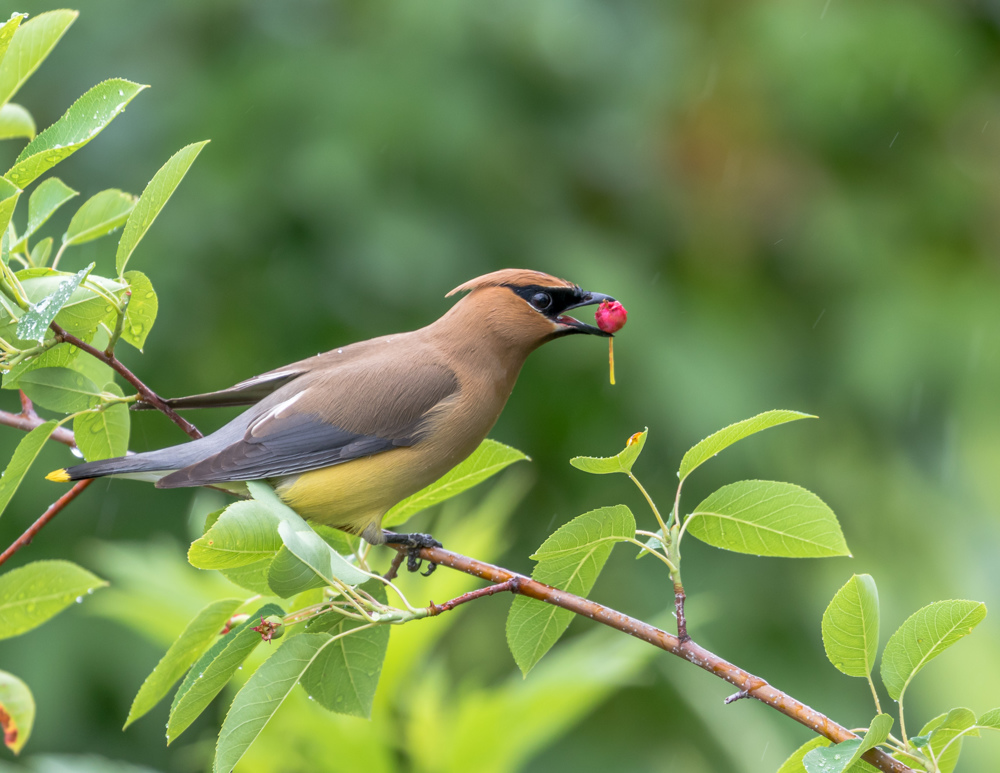
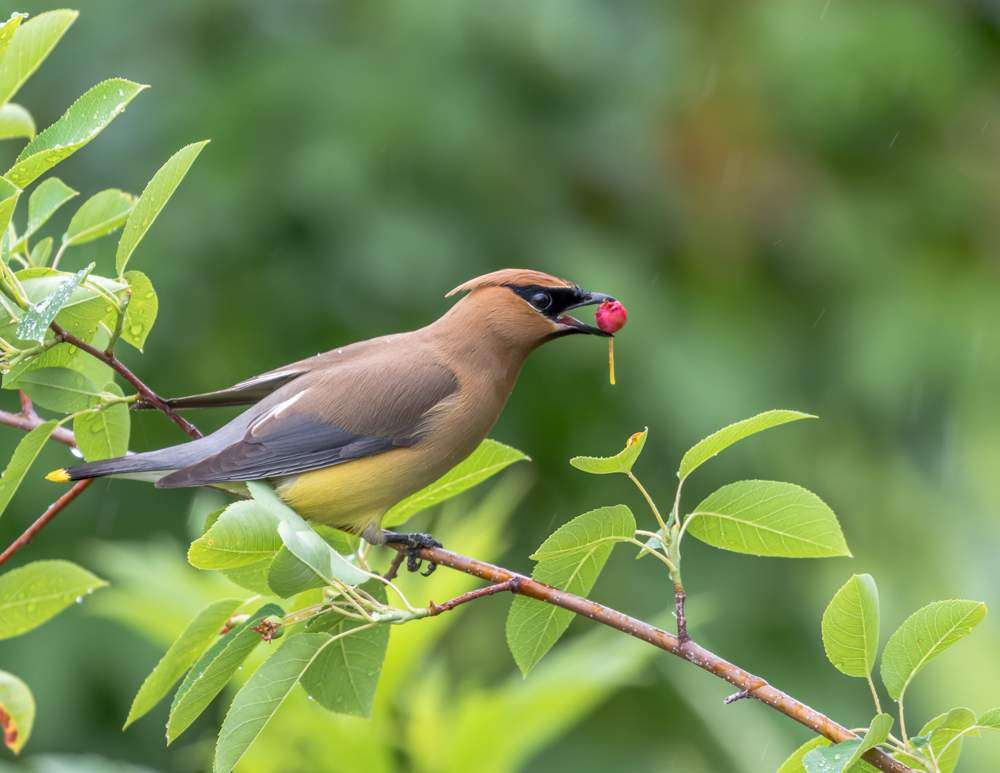
compress jpegs

diff --git a/www/index.html b/www/index.html
@@ -81,6 +81,8 @@
 
                 <button class="pswp__button pswp__button--close" title="Close (Esc)"></button>
 
+                <button class="pswp__button pswp__button--share" title="Share"></button>
+
                 <button class="pswp__button pswp__button--fs" title="Toggle fullscreen"></button>
 
                 <button class="pswp__button pswp__button--zoom" title="Zoom in/out"></button>

diff --git a/PortfolioGenerator/PortfolioGenerator/Program.cs b/PortfolioGenerator/PortfolioGenerator/Program.cs
@@ -2,6 +2,7 @@
 using System.Collections.Generic;
 using System.IO;
 using SixLabors.ImageSharp;
+using SixLabors.ImageSharp.Formats.Jpeg;
 using SixLabors.ImageSharp.Processing;
 
 namespace PortfolioGenerator
@@ -26,7 +27,8 @@ namespace PortfolioGenerator
             int index = 1;
             foreach (string iName in portfolioFiles)
             {
-                
+                JpegEncoder encoder = new JpegEncoder();
+                encoder.Quality = 65;
                 //generate thumbnail
                 using (Image image = Image.Load(portfolioFiles[index-1]))
                 {
@@ -34,16 +36,17 @@ namespace PortfolioGenerator
                     int height = 0;
                     image.Mutate(x => x.Resize(width, height));
 
-                    image.Save(baseDir + @"\Images\Portfolio\Thumbnails\portfolio-" +index+".jpg");
+                    image.Save(baseDir + @"\Images\Portfolio\Thumbnails\portfolio-" +index+".jpg",encoder);
                 }
                 //generate larger image
                 using (Image image = Image.Load(portfolioFiles[index-1]))
                 {
                     int width = 1500;
                     int height = 0;
+
                     image.Mutate(x => x.Resize(width, height));
                     string name = "portfolio-" + index + ".jpg";
-                    image.Save(baseDir + @"\Images\Portfolio\" + name);
+                    image.Save(baseDir + @"\Images\Portfolio\" + name,encoder);
                     ImageProperties ip = new ImageProperties();
                     ip.width = width;
                     ip.height = image.Height;
